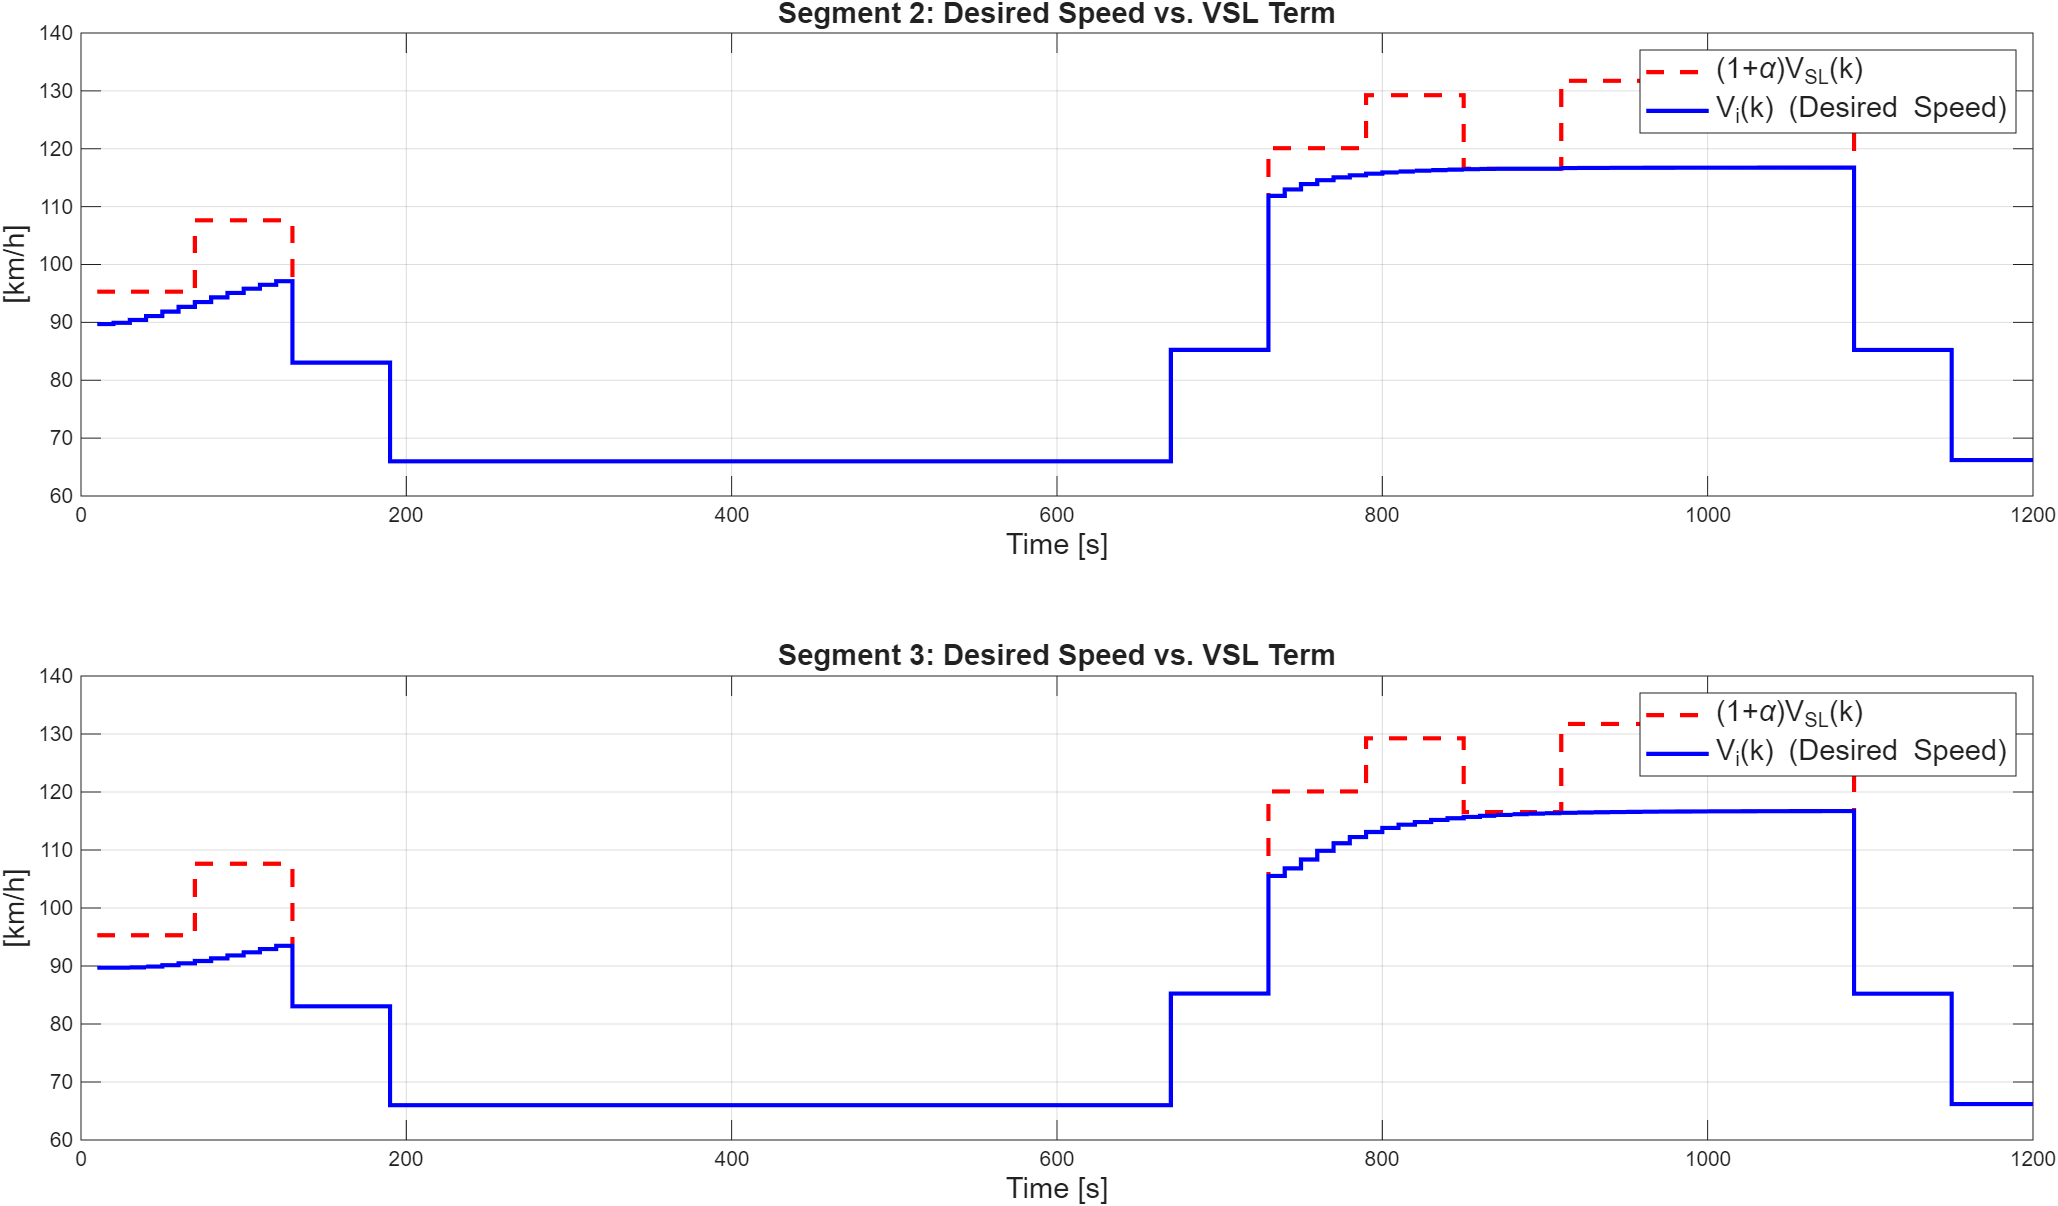
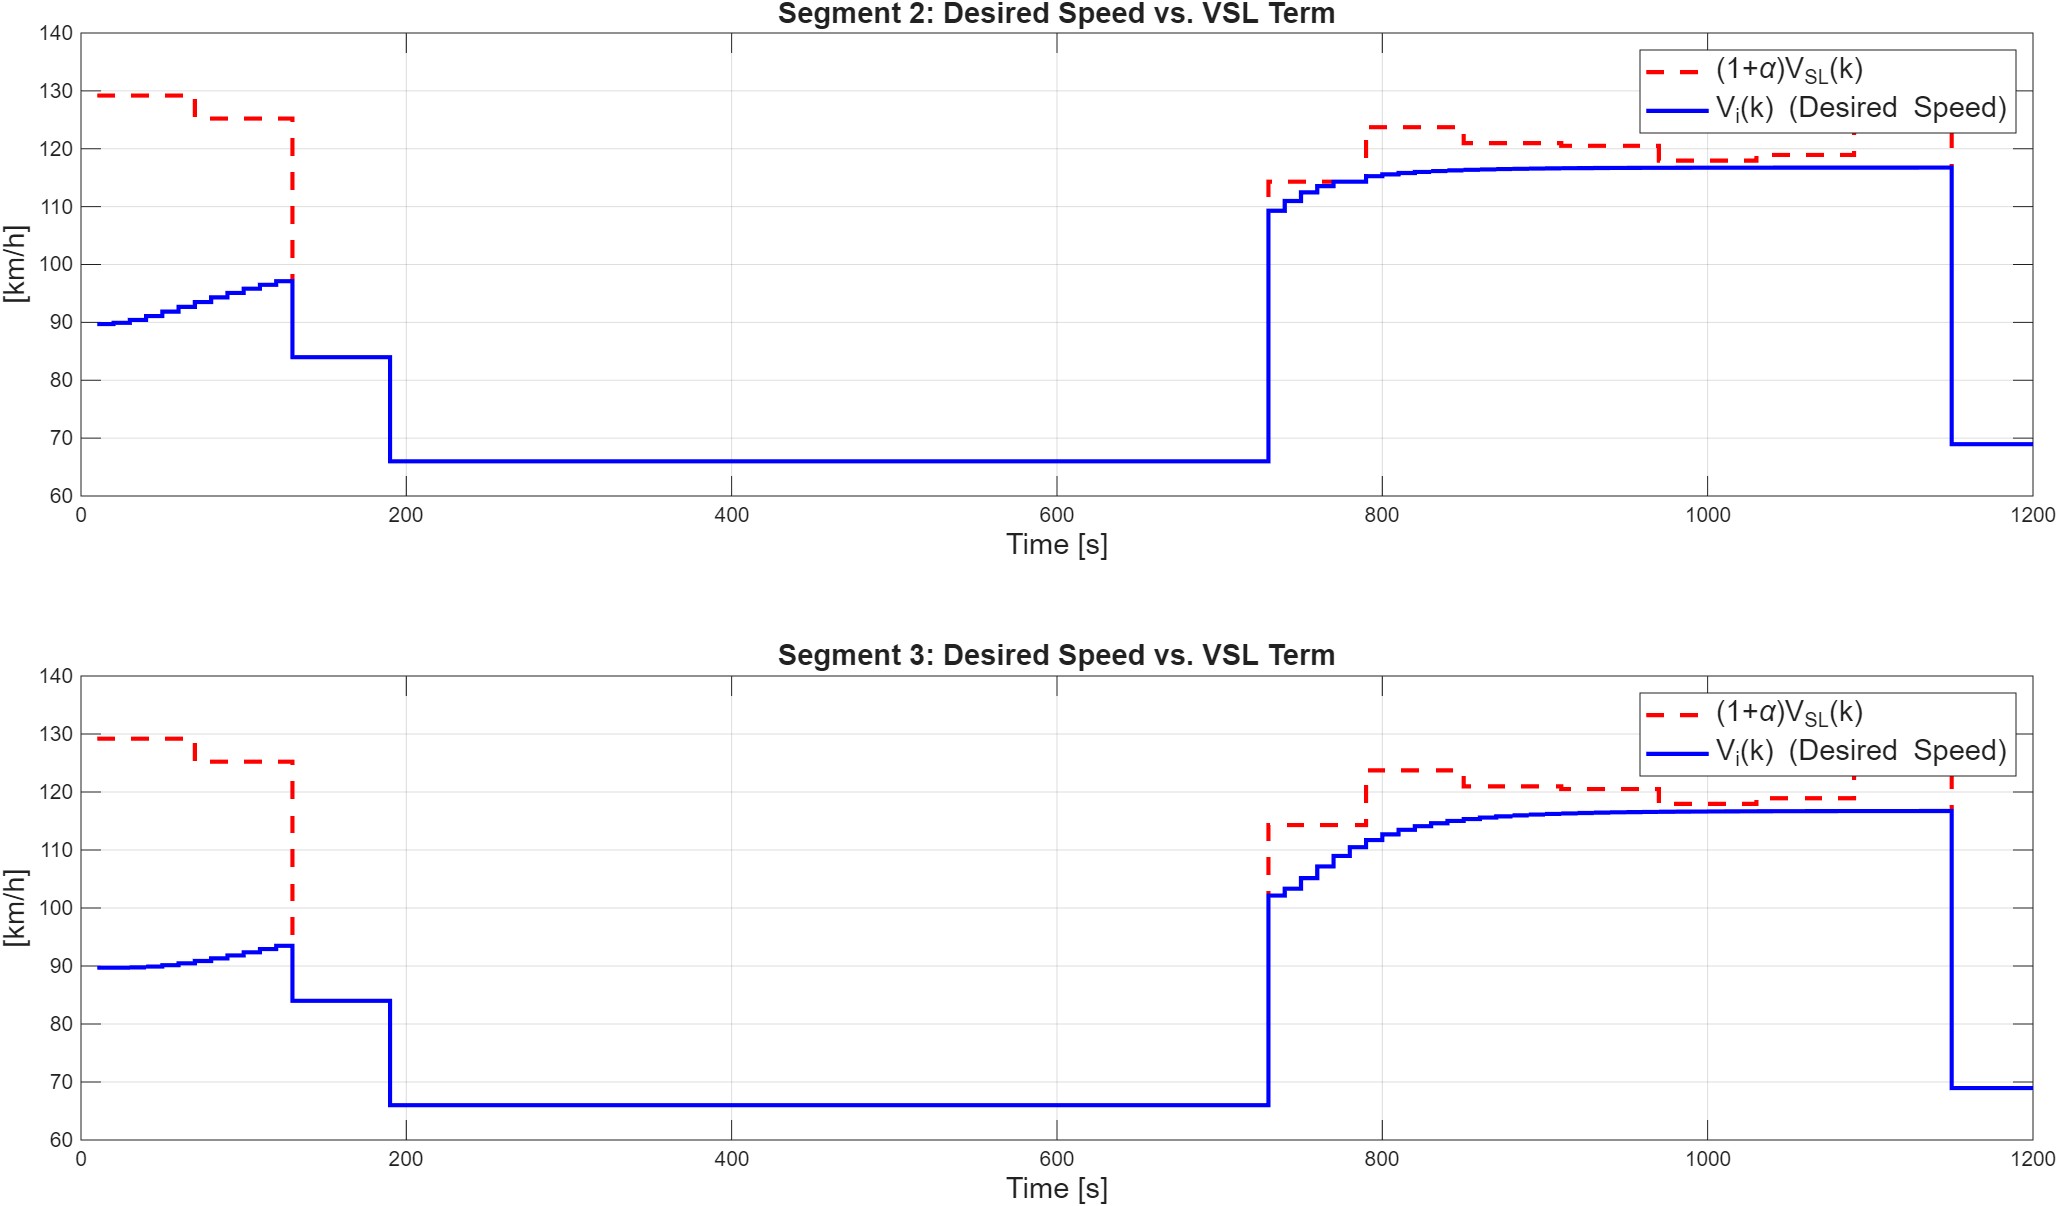
changes and fixes

diff --git a/optimization_Q5.m b/optimization_Q5.m
@@ -37,13 +37,79 @@ v_0 = 80 * ones(6,1);
 w_r_0 = 0;
 x0 = [v_0 ; rho_0 ; w_r_0];
 
-% Initial control conditions
-% A. Ramp closed (r=0), Min speed limit (VSL=60)
-u_control0_a = [zeros(Nc, 1); 60 * ones(Nc, 1)];
+%% Question 5 Plotting part 1
+vsl_term = (1 + params.alpha) .* VSL_a;
 
-% Weights for cost terms
-W_vsl = 6.3e-3;
-W_ramp = 6.3e-6;
+rho_k_seg2 = Rho_a(2, 2:end); 
+rho_k_seg3 = Rho_a(3, 2:end); 
+
+exp_term_seg2 = params.v_f .* exp(-(1/params.a) .* (rho_k_seg2 ./ params.rho_c).^params.a);
+exp_term_seg3 = params.v_f .* exp(-(1/params.a) .* (rho_k_seg3 ./ params.rho_c).^params.a);
+
+V_i_k_seg2 = min(vsl_term', exp_term_seg2);
+V_i_k_seg3 = min(vsl_term', exp_term_seg3);
+
+% Plotting (1+alpha)*VSL vs V_i(k)
+close all
+figure('Name', 'Task 5: VSL vs. Desired Speed');
+subplot(2,1,1);
+stairs(output_time_s, vsl_term, 'r--', 'LineWidth', 2, 'DisplayName', '(1+\alpha)V_{SL}(k)');
+hold on;
+stairs(output_time_s, V_i_k_seg2, 'b-', 'LineWidth', 2, 'DisplayName', 'V_i(k) (Desired Speed)');
+title('Segment 2: Desired Speed vs. VSL Term', 'FontSize', 14);
+xlabel('Time [s]', 'FontSize', 14); 
+ylabel('[km/h]', 'FontSize', 14);
+legend('show', 'FontSize', 14); 
+grid on;
+hold off;
+
+subplot(2,1,2);
+stairs(output_time_s, vsl_term, 'r--', 'LineWidth', 2, 'DisplayName', '(1+\alpha)V_{SL}(k)');
+hold on;
+stairs(output_time_s, V_i_k_seg3, 'b-', 'LineWidth', 2, 'DisplayName', 'V_i(k) (Desired Speed)');
+title('Segment 3: Desired Speed vs. VSL Term', 'FontSize', 14);
+xlabel('Time [s]', 'FontSize', 14); 
+ylabel('[km/h]', 'FontSize', 14);
+legend('show', 'FontSize', 14); 
+grid on;
+hold off;
+
+%% Question 5 Plotting part 2
+
+r_k_vec = r_a; 
+wr_k_vec = Wr_a(1, 1:120)';
+rho5_k_vec = Rho_a(5, 1:120)';
+
+q_r5_term1_allowed = r_k_vec .* params.C_r;
+q_r5_term2_demand = params.D_r + wr_k_vec ./ params.T;
+q_r5_term3_capacity = params.C_r .* (params.rho_m - rho5_k_vec) ./ (params.rho_m - params.rho_c);
+
+q_r5_k = min(min(q_r5_term1_allowed, q_r5_term2_demand), q_r5_term3_capacity);
+
+% Plotting r(k)*C_r vs q_r,5(k)
+close all
+figure('Name', 'Task 5: Ramp Metering Analysis');
+stairs(output_time_s, q_r5_term1_allowed, 'r--', 'LineWidth', 2, 'DisplayName', 'r(k) * C_r (Allowed Flow)');
+hold on;
+stairs(output_time_s, q_r5_k, 'b-', 'LineWidth', 2, 'DisplayName', 'q_{r,5}(k) (Actual Flow)');
+ylim([0 2100]);
+title('Segment 5: Allowed Ramp Flow vs. Actual Ramp Flow', 'FontSize', 14);
+xlabel('Time [s]', 'FontSize', 14); 
+ylabel('Flow [veh/h]', 'FontSize', 14);
+legend('show', 'FontSize', 14); grid on;
+hold off;
+
+%% Determining weights
+% Extract cost terms
+J_TTS_3 = CostFunctionQ5(u_opt_a, x0, params, 0, 0, 0).J_TTS;
+J_vsl_3 = CostFunctionQ5(u_opt_a, x0, params, 0, 0, 0).J_vsl;
+J_ramp_3 = CostFunctionQ5(u_opt_a, x0, params, 0, 0, 0).J_ramp;
+W_vsl = J_TTS_3 / J_vsl_3;
+W_ramp = J_TTS_3 / J_ramp_3;
+fprintf('\nWeight for VSL term, W_{vsl} = %d\n', W_vsl);
+fprintf('Weight for VSL term, W_{ramp} = %d\n', W_ramp);
+
+%% Multi-objective optimisation
 
 % Objective function
 costQ5 = @(u) CostFunctionQ5(u, x0, params, 0, W_vsl, W_ramp).cost;
@@ -57,8 +123,8 @@ options = optimoptions('fmincon', ...
     'StepTolerance', 1e-6, ...       % Default
     'ConstraintTolerance', 1e-6);    % Default
 
-tic; 
 % Run optimization_3_a_b.m before to have u_opt_a available for warm start
+tic;
 [u_opt_5, f_opt_5, exitflag_5, output_5] = fmincon(costQ5, u_opt_a, [], [], [], [], lb, ub, [], options);
 time_5 = toc; 
 
@@ -67,11 +133,11 @@ fprintf('Optimal combined cost: %.4f\n', f_opt_5);
 
 %% Post-processing
 % Obtaining optimal history
-[stateHist_opt5, outputHist_opt5, totalTTS_opt5] = simulation(u_opt_5, x0, params, 0);
+stateHist_opt5 = simulation(u_opt_5, x0, params, 0).stateHist;
 costQ5_opt = CostFunctionQ5(u_opt_5, x0, params, 0, W_vsl, W_ramp);
-fprintf('Cost TTS: %e\n', costQ5_opt.J_TTS);
-fprintf('Cost vsl: %e\n', costQ5_opt.J_vsl);
-fprintf('Cost ramp: %e\n', costQ5_opt.J_ramp);
+fprintf('Cost TTS (opt 5): %e\n', costQ5_opt.J_TTS);
+fprintf('Cost vsl (opt 5): %e\n', costQ5_opt.J_vsl);
+fprintf('Cost ramp (opt 5): %e\n', costQ5_opt.J_ramp);
 
 % Plotting optimal ramp metering rates and VSL
 [V_opt_5, Rho_opt_5, Wr_opt_5, r_opt_5, VSL_opt_5] = extract_data(stateHist_opt5, u_opt_5);
@@ -93,7 +159,7 @@ stairs(VSL_a, 'r:', 'LineWidth', 2, 'DisplayName', 'Task 3a (TTS-Only)');
 hold on;
 stairs(VSL_opt_5, 'r-', 'LineWidth', 3, 'DisplayName', 'Task 5 (Multi-Obj)');
 title('Variable Speed Limit Comparison', 'FontSize', 14);
-ylabel('[km/h]'); 
+ylabel('[km/h]', 'FontSize', 14);
 xlabel('Time [s]', 'FontSize', 14); 
 ylim([50 130]);
 legend('show', 'FontSize', 14); 

diff --git a/optimization_3_a_b.m b/optimization_3_a_b.m
@@ -93,11 +93,11 @@ time1_b = toc; % End timer
 % each case that returns us plots.
 
 % 0 --> condition (a)
-[state_a, output_a] = simulation(u_opt_a, x0, params, 0);
-[state_b, output_b] = simulation(u_opt_b, x0, params, 0);
+state_a = simulation(u_opt_a, x0, params, 0).stateHist;
+state_b = simulation(u_opt_b, x0, params, 0).stateHist;
 % 1 --> condition (b)
-[state1_a, output1_a] = simulation(u_opt1_a, x0, params, 1);
-[state1_b, output1_b] = simulation(u_opt1_b, x0, params, 1);
+state1_a = simulation(u_opt1_a, x0, params, 1).stateHist;
+state1_b = simulation(u_opt1_b, x0, params, 1).stateHist;
 
 % Extract relevant states
 [V_a, Rho_a, Wr_a, r_a, VSL_a] = extract_data(state_a, u_opt_a);
@@ -251,3 +251,13 @@ xlabel('Time [s]', 'FontSize', 14);
 ylabel('Flow [veh/h]', 'FontSize', 14);
 legend('show', 'FontSize', 14); grid on;
 hold off;
+
+%% Determining weights (for Task 5)
+% Extract cost terms
+J_TTS_3 = CostFunctionQ5(u_opt_a, x0, params, 0, 0, 0).J_TTS;
+J_vsl_3 = CostFunctionQ5(u_opt_a, x0, params, 0, 0, 0).J_vsl;
+J_ramp_3 = CostFunctionQ5(u_opt_a, x0, params, 0, 0, 0).J_ramp;
+W_vsl = J_TTS_3 / J_vsl_3;
+W_ramp = J_TTS_3 / J_ramp_3;
+fprintf('\nWeight for VSL term, W_{vsl} = %d\n', W_vsl);
+fprintf('Weight for VSL term, W_{ramp} = %d\n', W_ramp);

diff --git a/update_density.m b/update_density.m
@@ -35,7 +35,10 @@ function rho_next = update_density(x_k, u_k, params, k, simType)
     q_i = params.lambda .* rho_k .* v_k ;
     q_i_prev = [q_0 ; q_i(1:end-1)];
     q_r_i = zeros(6,1);
-    q_r_i(5) = min([r_k * params.C_r, params.D_r + w_r / params.T, params.C_r * (params.rho_m - rho_k(5) / (params.rho_m - params.rho_c))]);
+    qr5_1 = r_k * params.C_r;
+    qr5_2 = params.D_r + w_r / params.T;
+    qr5_3 = params.C_r * ((params.rho_m - rho_k(5)) / (params.rho_m - params.rho_c));
+    q_r_i(5) = min([qr5_1, qr5_2, qr5_3]);
 
     % Calculation next traffic density
     rho_next = rho_k + (params.T / (params.lambda * params.L)) * (q_i_prev - q_i + q_r_i);

diff --git a/CostFunctionQ5.m b/CostFunctionQ5.m
@@ -1,7 +1,8 @@
 function costQ5 = CostFunctionQ5(u, x_0, params, simType, W_vsl, W_ramp)
 % costQ5 = J_TTS + W_vsl * J_vsl + W_ramp * J_ramp
 
-[stateHist, outputHist] = simulation(u, x_0, params, simType);
+stateHist = simulation(u, x_0, params, simType).stateHist;
+outputHist = simulation(u, x_0, params, simType).outputHist;
 
 
 % Finding applied inputs
